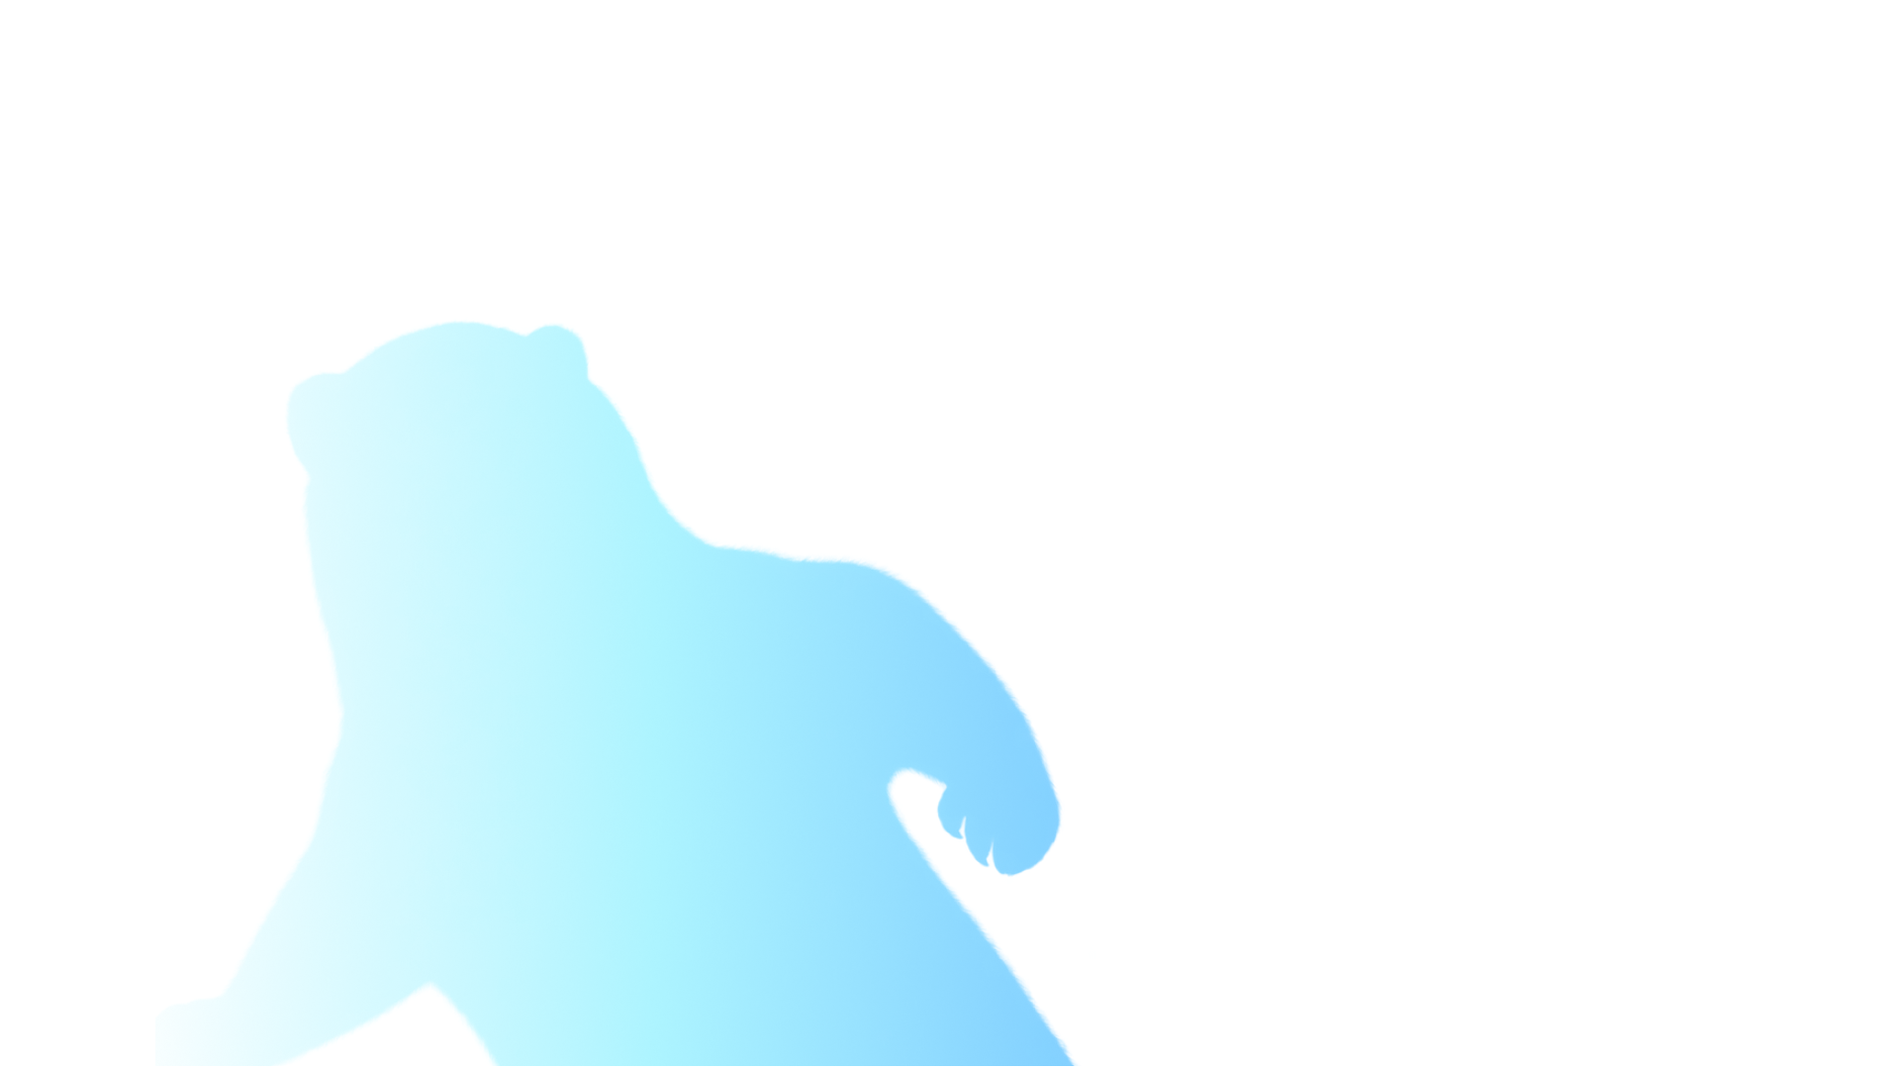
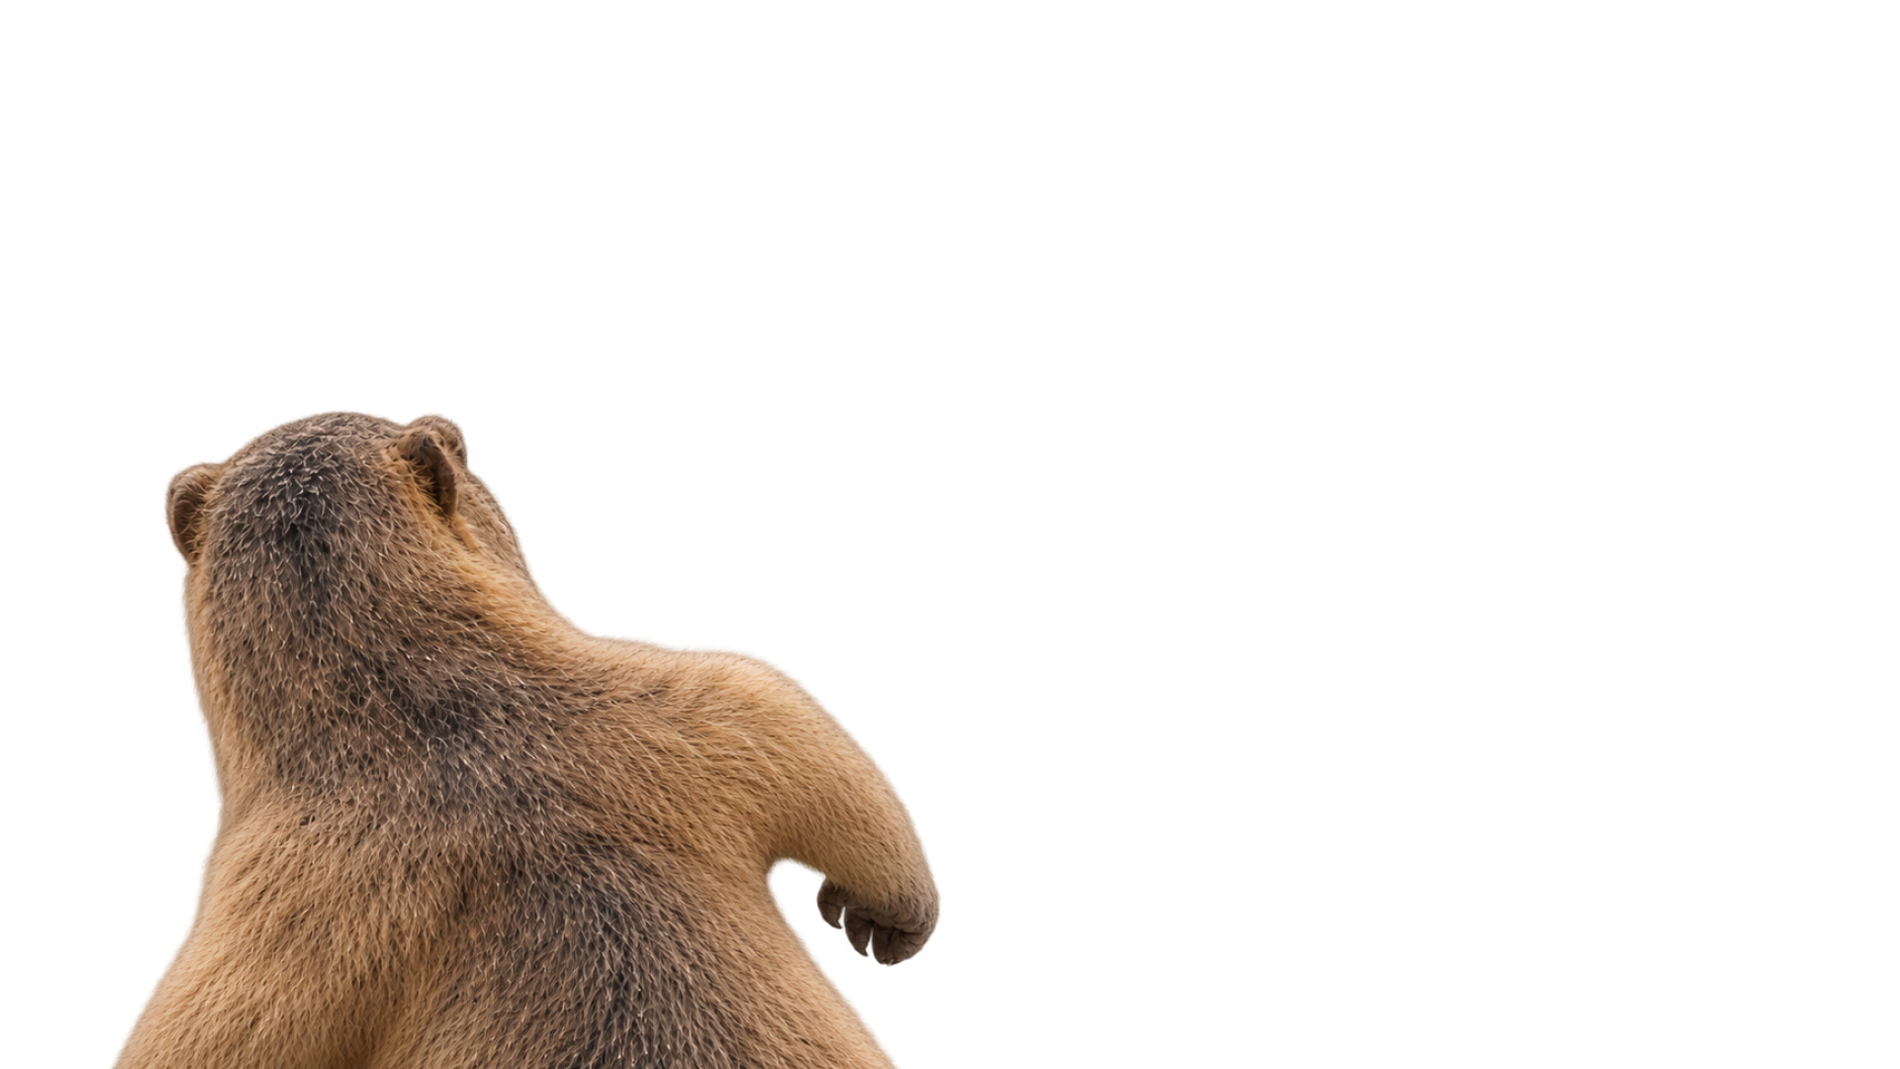
ファイル整頓をコミット

Changed region(s): [[0.0625, 0.3056, 0.5625, 1.0]]

diff --git a/game.js b/game.js
@@ -48,48 +48,42 @@ const struggleTwoPlayerFeedback = document.getElementById("struggle-2p-feedback"
 const struggleInstruction = document.getElementById("struggle-instruction");
 const struggleOpponentLabel = document.getElementById("struggle-opponent-label");
 const normalImage = player.getAttribute("src");
-const sittingImage = "assets/characters/player/sit/座り_プレイヤー.png";
+const sittingImage = "assets/characters/player/sit/Sit_1P.png";
 const punchImages = {
-    0: "assets/characters/player/punch/パンチ_プレイヤー_左.png",
-    2: "assets/characters/player/punch/パンチ_プレイヤー_右.png",
+    0: "assets/characters/player/punch/Punch_Left_1P.png",
+    2: "assets/characters/player/punch/Punch_Right_1P.png",
 };
 // 全画面PNGの位置は画面に対する割合（cqw / cqh）。コピー数や移動幅も調整できる。
 const rightPunchMotion = {
     windup: 300, windupHold: 140, contact: 100, recovery: 120,
     layers: [
-        { image: "assets/characters/player/Stand_1P.png", copies: 3, opacity: 0.5, fade: "out", fadeStart: 0, fadeEnd: 0.375, offsetX: -0.7, offsetY: 0 },
-        { image: "assets/characters/player/punch/Punch_Right_1P_残像.png", copies: 3, opacity: 0.5, fade: "in", fadeStart: 0.25, fadeEnd: 1, offsetX: 0.7, offsetY: 0 },
+        { image: "assets/characters/player/stand/Stand_afterimage_1P.png", copies: 3, opacity: 0.5, fade: "out", fadeStart: 0, fadeEnd: 0.375, offsetX: -0.7, offsetY: 0 },
+        { image: "assets/characters/player/punch/Punch_Right_afterimage_1P.png", copies: 3, opacity: 0.5, fade: "in", fadeStart: 0.25, fadeEnd: 1, offsetX: 0.7, offsetY: 0 },
     ],
 };
 function makeMotionConfig(image, direction, windup, windupHold, contact, recovery) {
     return {
         windup, windupHold, contact, recovery,
         layers: [
-            { image: "assets/characters/player/Stand_1P.png", copies: 3, opacity: 0.5, fade: "out", fadeStart: 0, fadeEnd: 0.375, offsetX: -0.7 * direction, offsetY: 0 },
+            { image: "assets/characters/player/stand/Stand_afterimage_1P.png", copies: 3, opacity: 0.5, fade: "out", fadeStart: 0, fadeEnd: 0.375, offsetX: -0.7 * direction, offsetY: 0 },
             { image, copies: 3, opacity: 0.5, fade: "in", fadeStart: 0.25, fadeEnd: 1, offsetX: 0.7 * direction, offsetY: 0 },
         ],
     };
 }
-const leftPunchMotion = makeMotionConfig("assets/characters/player/punch/Punch_Left_1P.png", -1, 180, 84, 100, 170);
+const leftPunchMotion = makeMotionConfig("assets/characters/player/punch/Punch_Left_1P_afterimage.png", -1, 180, 84, 100, 170);
 const dodgeImages = {
-    left: "assets/characters/player/dodge/回避_プレイヤー_左.png",
-    right: "assets/characters/player/dodge/回避_プレイヤー_右.png",
+    left: "assets/characters/player/dodge/Dodge_Left_1P.png",
+    right: "assets/characters/player/dodge/Dodge_Right_1P.png",
 };
 const dodgeMotions = {
-    left: makeMotionConfig("assets/characters/player/dodge/Dodge_Left_1P.png", -1, 80, 35, 140, 120),
-    right: makeMotionConfig("assets/characters/player/dodge/Dodge_Right_1P.png", 1, 80, 35, 140, 120),
+    left: makeMotionConfig("assets/characters/player/dodge/Dodge_Left_afterimage_1P.png", -1, 80, 35, 140, 120),
+    right: makeMotionConfig("assets/characters/player/dodge/Dodge_Right_afterimage_1P.png", 1, 80, 35, 140, 120),
 };
-// 1920×1080の基準画面上での画像左上座標。
-dodgeMotions.left.endPosition = { x: 35, y: 362 };
-dodgeMotions.right.endPosition = { x: 216, y: 321 };
-// 不透明部分の中心。全画面の残像と縦長の到達姿勢の透明余白を合わせる。
-dodgeMotions.left.anchors = { stand: { x: 715, y: 682.5 }, ghost: { x: 622.5, y: 700 }, pose: { x: 534, y: 734 } };
-dodgeMotions.right.anchors = { stand: { x: 715, y: 682.5 }, ghost: { x: 799, y: 701 }, pose: { x: 552, y: 734 } };
-const roarImage = "assets/characters/player/roar/咆哮_プレイヤー.png";
-const sitAfterimage1 = "assets/characters/player/sit/座る_プレイヤー_残像1_.png";
-const sitAfterimage2 = "assets/characters/player/sit/座る_プレイヤー_残像2.png";
-const roarAfterimage1 = "assets/characters/player/roar/咆哮_プレイヤー_残像1.png";
-const roarAfterimage2 = "assets/characters/player/roar/咆哮_プレイヤー_残像2.png";
+const roarImage = "assets/characters/player/roar/Roar_1P.png";
+const sitAfterimage1 = "assets/characters/player/stand/Stand_1P.png";
+const sitAfterimage2 = "assets/characters/player/sit/Sit_1P.png";
+const roarAfterimage1 = "assets/characters/player/stand/Stand_1P.png";
+const roarAfterimage2 = "assets/characters/player/roar/Roar_1P.png";
 const sittingFrames = [
     { image: sitAfterimage1, duration: 80, fullFrame: true },
     { image: sitAfterimage2, duration: 80, fullFrame: true },
@@ -106,13 +100,13 @@ const roarFrames = [
     { image: roarAfterimage2, duration: 150, fullFrame: true },
     { image: roarAfterimage1, duration: 150, fullFrame: true },
 ];
-const pickupImage = "assets/characters/player/pick up/拾い_プレイヤー.png";
+const pickupImage = "assets/characters/player/pick up/Pick up_1P.png";
 const pickupFrames = [
-    { image: "assets/characters/player/pick up/拾う_プレイヤー_残像_1.png", duration: 90, fullFrame: true },
-    { image: "assets/characters/player/pick up/拾う_プレイヤー_残像_2.png", duration: 90, fullFrame: true },
+    { image: "assets/characters/player/pick up/Pick up_afterimage_1P.png", duration: 90, fullFrame: true },
+    { image: "assets/characters/player/pick up/Pick up_afterimage_1P.png", duration: 90, fullFrame: true },
     { image: pickupImage, duration: 90, compactPose: true },
-    { image: "assets/characters/player/pick up/拾う_プレイヤー_残像_2.png", duration: 90, fullFrame: true },
-    { image: "assets/characters/player/pick up/拾う_プレイヤー_残像_1.png", duration: 90, fullFrame: true },
+    { image: "assets/characters/player/pick up/Pick up_afterimage_1P.png", duration: 90, fullFrame: true },
+    { image: "assets/characters/player/pick up/Pick up_afterimage_1P.png", duration: 90, fullFrame: true },
 ];
 const roarFill = document.querySelector(".player-gauges .roar .gauge-fill");
 const staminaFill = document.querySelector(".player-gauges .stamina .gauge-fill");
@@ -132,7 +126,7 @@ const resultDisplayDuration = 2200;
 const stageIntroDuration = 1500;
 const fightIntroDuration = 800;
 const roarWarningDuration = 600;
-const roarTargetLockDuration = 4000;
+const roarTargetLockDuration = 2000; // 演出の1秒と合わせて3秒
 const roarCounterLockDuration = 2000;
 const eatingPercentPerSecond = 5;
 const maxStamina = 10;
@@ -141,7 +135,7 @@ const hitStaminaCost = 1;
 const dodgeRoarGain = 5;
 const punchInvulnerabilityDuration = 1500;
 const carrotRepickupDelay = 800;
-const naturalRecoveryInterval = 2000;
+const naturalRecoveryInterval = 1000;
 const sleepRecoveryInterval = 1000;
 const sleepRecoveryAmount = 2;
 const fatigueDuration = 4000;
@@ -284,7 +278,6 @@ const struggleState = {
     active: false, generation: 0, endsAt: 0,
     playerGood: 0, cpuGood: 0,
     lastPlayerButton: null, lastCpuButton: null,
-    pressedButtons: new Set(),
     finishTimer: null, displayTimer: null, cpuTimer: null,
 };
 let struggleAudioContext = null;
@@ -306,17 +299,20 @@ const openingState = {
 function configureStage(index) {
     stageIndex = index;
     const stage = stages[index];
-    const name = stage.character;
     cpuAi = cpuProfiles[stage.rank];
     struggleCpuProfile = struggleCpuProfiles[stage.rank];
-    cpuNormalImage = `assets/characters/cpu/${name}.png`;
+    const cpuAssets = [
+        { folder: "1_Normal", stand: "Stand_enemy.png", roar: "Roar_1.png", leftPunch: "Punch_Left_1.png", rightPunch: "Punch_Right_enemy.png", leftDodge: "Dodge_Left_enemy.png", rightDodge: "Dodge_Right_enemy.png", pickup: "Pick up_1.png", sit: "Sit_1.png", sleep: "Sleep_1.png" },
+        { folder: "2_Army", stand: "Stand_enemy2.png", roar: "Roar_enemy2.png", leftPunch: "Punch_left_enemy2.png", rightPunch: "Punch_Right_enemy2.png", leftDodge: "Dodge_Left_enemy2.png", rightDodge: "Dodge_Right_enemy2.png", pickup: "Pick up_enemy2.png", sit: "Sit_enemy2.png", sleep: "Sleep_enemy2.png" },
+        { folder: "3_Champion", stand: "Stand_enemy3.png", roar: "Roar_enemy3.png", leftPunch: "Punch_Left_enemy3.png", rightPunch: "Punch_Right_enemy3.png", leftDodge: "Dodge_Left_enemy3.png", rightDodge: "Dodge_Right_enemy3.png", pickup: "Pick up_enemy3.png", sit: "Sit_enemy3.png", sleep: "Sleep_enemy3.png" },
+    ][index];
+    const asset = (action, file) => `assets/characters/cpu/${cpuAssets.folder}/${action}/${file}`;
+    cpuNormalImage = asset("stand", cpuAssets.stand);
     cpuImages = {
-        roar: `assets/characters/cpu/roar/咆哮_${name}.png`,
-        punch: { left: `assets/characters/cpu/punch/パンチ_${name}_左.png`, right: `assets/characters/cpu/punch/パンチ_${name}_右.png` },
-        dodge: { left: `assets/characters/cpu/dodge/回避_${name}_左.png`, right: `assets/characters/cpu/dodge/回避_${name}_右.png` },
-        pickup: `assets/characters/cpu/pick up/拾い_${name}.png`,
-        sit: `assets/characters/cpu/sit/座り_${name}.png`,
-        sleep: `assets/characters/cpu/sleep/眠り_${name}.png`,
+        roar: asset("roar", cpuAssets.roar),
+        punch: { left: asset("punch", cpuAssets.leftPunch), right: asset("punch", cpuAssets.rightPunch) },
+        dodge: { left: asset("dodge", cpuAssets.leftDodge), right: asset("dodge", cpuAssets.rightDodge) },
+        pickup: asset("pick up", cpuAssets.pickup), sit: asset("sit", cpuAssets.sit), sleep: asset("sleep", cpuAssets.sleep),
     };
     gameScreen.style.backgroundImage = `url("assets/backgrounds/背景_${stage.background}.png")`;
     stageLabel.src = `assets/stage/${stage.label}`;
@@ -531,7 +527,6 @@ function stopBattleActions() {
     struggleState.cpuTimer = null;
     struggleState.active = false;
     struggleState.generation += 1;
-    struggleState.pressedButtons.clear();
     stopStruggleMusic();
     struggleUi.hidden = true;
     gameScreen.classList.remove("is-struggling");
@@ -871,10 +866,6 @@ setInterval(() => {
 }, 100);
 
 function showPlayerImage(image, compactPose = false, fullFrame = false, position = null) {
-    player.classList.toggle("is-full-frame", fullFrame);
-    player.style.width = compactPose ? "42cqw" : "";
-    player.style.left = position ? `${position.x / 1920 * 100}cqw` : compactPose ? "16cqw" : "";
-    player.style.top = position ? `${position.y / 1080 * 100}cqh` : "";
     player.src = image;
 }
 
@@ -1258,8 +1249,7 @@ function stopStruggleMusic() {
 
 function recordStrugglePlayerInput(button) {
     if (!struggleState.active || performance.now() >= struggleState.endsAt ||
-        (button !== 0 && button !== 2) || struggleState.pressedButtons.has(button)) return;
-    struggleState.pressedButtons.add(button);
+        (button !== 0 && button !== 2)) return;
     startStruggleMusic();
     const good = struggleState.lastPlayerButton === null || struggleState.lastPlayerButton !== button;
     struggleState.lastPlayerButton = button;
@@ -1299,7 +1289,6 @@ function startStruggle() {
     clearPendingRoar();
     clearTwoPlayerInput();
     pressedPunchButtons.clear();
-    struggleState.pressedButtons.clear();
     struggleState.active = true;
     const generation = ++struggleState.generation;
     struggleState.endsAt = performance.now() + struggleDuration;
@@ -1316,7 +1305,7 @@ function startStruggle() {
     struggleTwoPlayerFeedback.textContent = "";
     struggleTwoPlayerFeedback.className = "struggle-feedback";
     struggleTwoPlayerFeedback.hidden = gameMode !== "2p";
-    struggleInstruction.textContent = gameMode === "2p" ? "1P：左右クリック　2P：J / K を交互に！" : "左右交互にクリック！";
+    struggleInstruction.textContent = gameMode === "2p" ? "1P：ホイール上・下　2P：J / K を交互に！" : "ホイール上・下 または J / K を交互に！";
     struggleOpponentLabel.textContent = gameMode === "2p" ? "2P" : "CPU";
     gameScreen.classList.add("is-struggling");
     struggleUi.hidden = false;
@@ -1340,7 +1329,6 @@ function finishStruggle(generation) {
         struggleState.playerGood > struggleState.cpuGood ? "player" : "cpu";
     struggleState.active = false;
     clearTwoPlayerInput();
-    struggleState.pressedButtons.clear();
     pressedPunchButtons.clear();
     struggleState.lastPlayerButton = null;
     struggleState.lastCpuButton = null;
@@ -1693,21 +1681,6 @@ function renderMotionVisual(config, progress) {
             image.style.opacity = String(layer.opacity * intensity * (1 - copy / layer.copies));
             let x = layer.offsetX * copy * intensity;
             let y = layer.offsetY * copy * intensity;
-            if (config.anchors && config.endPosition) {
-                const { stand, ghost, pose } = config.anchors;
-                // 到達画像は幅42cqw、元画像は幅1086px。両者の可視部分の中心を一致させる。
-                const poseScale = (1920 * 0.42) / 1086;
-                const endX = config.endPosition.x + pose.x * poseScale;
-                const endY = config.endPosition.y + pose.y * poseScale;
-                const startX = layer.fade === "in" ? stand.x - ghost.x : 0;
-                const startY = layer.fade === "in" ? stand.y - ghost.y : 0;
-                const finishX = layer.fade === "in" ? endX - ghost.x : endX - stand.x;
-                const finishY = layer.fade === "in" ? endY - ghost.y : endY - stand.y;
-                const clamp = (value, a, b) => Math.max(Math.min(a, b), Math.min(Math.max(a, b), value));
-                const trail = progress * (1 - progress);
-                x = clamp(startX + (finishX - startX) * progress + x * 1920 / 100 * trail, startX, finishX) / 1920 * 100;
-                y = clamp(startY + (finishY - startY) * progress + y * 1080 / 100 * trail, startY, finishY) / 1080 * 100;
-            }
             image.style.transform = `translate(${x}cqw, ${y}cqh)`;
         }
     }
@@ -1843,26 +1816,20 @@ function applyRoarToTarget(target) {
         if (dodgePhase) cancelDodge();
         if (pickupInProgress) cancelPickup();
         if (standingUp) cancelStandUp();
-        clearTimeout(fatigueTimer);
-        fatigueTimer = null;
-        fatigued = false;
         if (playerState.hasCarrot) dropCarrot("player", "roar");
         playerState.mode = "normal";
         playerState.sleepHitCount = 0;
         playerRoarStunned = true;
         actionInProgress = true;
-        setStamina(0, false);
+        setStamina(Math.ceil(stamina / 2), false);
         showCurrentState();
         player.classList.add("is-roar-hit");
     } else {
         cancelCpuActionForRoar();
-        clearTimeout(cpuState.fatigueTimer);
-        cpuState.fatigueTimer = null;
-        cpuState.fatigued = false;
         if (carrotState.holder === "cpu") dropCarrot("cpu", "roar");
         cpuState.mode = "roarStunned";
         cpuState.roarStunned = true;
-        setCpuStamina(0, false);
+        setCpuStamina(Math.ceil(cpuState.stamina / 2), false);
         showCpuCurrentState();
         cpu.classList.add("is-roar-hit");
     }
@@ -1873,13 +1840,11 @@ function releaseRoarTarget(target) {
         playerRoarStunned = false;
         actionInProgress = false;
         playerState.mode = playerState.hasCarrot ? "eating" : "normal";
-        setStamina(fatigueRecoveryStamina);
         lastStaminaUpdate = performance.now();
         showCurrentState();
     } else {
         cpuState.roarStunned = false;
-        cpuState.mode = carrotState.holder === "cpu" ? "eating" : "normal";
-        setCpuStamina(fatigueRecoveryStamina);
+        cpuState.mode = cpuState.fatigued ? "fatigued" : carrotState.holder === "cpu" ? "eating" : "normal";
         cpuState.lastStaminaUpdate = performance.now();
         showCpuCurrentState();
     }
@@ -1994,7 +1959,14 @@ function startTwoPlayerSit() {
 }
 
 window.addEventListener("keydown", (event) => {
-    if (gameMode !== "2p" || matchState.finished || !["KeyD", "KeyF", "KeyJ", "KeyK", "Space"].includes(event.code)) return;
+    if (matchState.finished || !["KeyD", "KeyF", "KeyJ", "KeyK", "Space"].includes(event.code)) return;
+    if (gameMode !== "2p") {
+        if (struggleState.active && (event.code === "KeyJ" || event.code === "KeyK")) {
+            event.preventDefault();
+            if (!event.repeat) recordStrugglePlayerInput(event.code === "KeyJ" ? 0 : 2);
+        }
+        return;
+    }
     event.preventDefault();
     if (event.repeat || twoPlayerKeys.has(event.code)) return;
     twoPlayerKeys.add(event.code);
@@ -2049,7 +2021,6 @@ gameScreen.addEventListener("mousedown", (event) => {
     if (matchState.finished) return;
     if (struggleState.active) {
         if (event.button === 2) event.preventDefault();
-        recordStrugglePlayerInput(event.button);
         return;
     }
     if (pickupInProgress && event.button === 1) {
@@ -2096,12 +2067,10 @@ gameScreen.addEventListener("mousedown", (event) => {
 });
 
 window.addEventListener("mouseup", (event) => {
-    struggleState.pressedButtons.delete(event.button);
     pressedPunchButtons.delete(event.button);
 });
 
 window.addEventListener("blur", () => {
-    struggleState.pressedButtons.clear();
     pressedPunchButtons.clear();
     clearPendingRoar();
     clearTwoPlayerInput();
@@ -2113,8 +2082,11 @@ gameScreen.addEventListener("auxclick", (event) => {
 
 gameScreen.addEventListener("wheel", (event) => {
     event.preventDefault();
-    if (matchState.finished || struggleState.active) return;
-    if (event.deltaY === 0) return;
+    if (matchState.finished || event.deltaY === 0) return;
+    if (struggleState.active) {
+        recordStrugglePlayerInput(event.deltaY < 0 ? 0 : 2);
+        return;
+    }
     if (actionInProgress || fatigued || playerRoarStunned || playerCounterStunned) return;
 
     clearPendingRoar();

diff --git a/index.html b/index.html
@@ -9,13 +9,13 @@
 </head>
 <body>
     <main id="game-screen" aria-label="ふれあいまーもっと 戦闘画面">
-        <img id="cpu" src="assets/characters/cpu/ノーマル.png" alt="CPUのまーもっと">
+        <img id="cpu" src="assets/characters/cpu/1_Normal/stand/Stand_enemy.png" alt="CPUのまーもっと">
         <div id="cpu-hit-mark" aria-hidden="true">HIT!</div>
         <div id="player-hit-mark" aria-hidden="true">HIT!</div>
         <div id="roar-warning" role="status" aria-live="assertive" hidden>WARNING!</div>
         <div id="first-hit-label" role="status" aria-live="polite" hidden>FIRST HIT!</div>
         <img id="carrot" src="assets/carrots/リアルにんじん.png" alt="にんじん">
-        <img id="player" src="assets/characters/プレイヤー.png" alt="プレイヤーのまーもっと">
+        <img id="player" src="assets/characters/player/stand/Stand_1P.png" alt="プレイヤーのまーもっと">
 
         <div id="battle-ui">
             <div class="gauge-group player-gauges" aria-label="プレイヤーのゲージ">
@@ -53,8 +53,8 @@
         </div>
         <div id="struggle-ui" aria-live="polite" hidden>
             <div class="struggle-title">にんじん争奪！</div>
-            <div class="struggle-mouse" aria-label="左クリックと右クリックを交互に押す"><span>左</span><span>右</span></div>
-            <div class="struggle-instruction" id="struggle-instruction">左右交互にクリック！</div>
+            <div class="struggle-mouse" aria-label="ホイールを上と下に交互に操作"><span>上</span><span>下</span></div>
+            <div class="struggle-instruction" id="struggle-instruction">ホイール上・下 または J / K を交互に！</div>
             <div id="struggle-time" class="struggle-time">3</div>
             <div class="struggle-scores"><span>1P GOOD <strong id="struggle-player-score">0</strong></span><span><span id="struggle-opponent-label">CPU</span> GOOD <strong id="struggle-cpu-score">0</strong></span></div>
             <div id="struggle-feedback" class="struggle-feedback" aria-live="assertive"></div>
@@ -75,7 +75,7 @@
             <p>1P：マウスでパンチ・回避・座り</p>
             <p>2P：D / F パンチ　J / K 回避　Space 座り</p>
             <p>2P：D＋Fを長押しで咆哮（ゲージ100%）</p>
-            <p>にんじん争奪中は1Pが左右クリック、2PがJ / Kを交互に入力</p>
+            <p>にんじん争奪中は1Pがホイール上・下、2PがJ / Kを交互に入力</p>
             <button id="two-player-start" type="button">対戦開始</button>
             <button id="two-player-back" type="button">タイトルへ</button>
         </section>

diff --git a/style.css b/style.css
@@ -18,12 +18,12 @@ body {
 /* 1920×1080 の画面をコンテナ単位で等比縮小する。 */
 #game-screen {
     /* キャラクター調整値。PNGの透明余白を含む画像全体の幅と左上座標。 */
-    --player-width: 122cqw;
-    --player-left: -25cqw;
-    --player-top: 19cqh;
-    --cpu-width: 37cqw;
-    --cpu-left: 39.5cqw;
-    --cpu-top: 20.3cqh;
+    --player-width: 100cqw;
+    --player-left: 0cqw;
+    --player-top: 0cqh;
+    --cpu-width: 100cqw;
+    --cpu-left: 0cqw;
+    --cpu-top: 0cqh;
     /* 所持中のにんじん位置。立ち姿と座り姿で調整する。 */
     --carrot-standing-left: 46cqw;
     --carrot-standing-top: 34cqh;
@@ -307,7 +307,7 @@ body {
 
 #battle-timer {
     position: relative;
-    margin-top: 2cqh;
+    margin-top: -3.3cqh;
     color: #fff;
     font: 900 8.9cqh/1 Arial, sans-serif;
     letter-spacing: -0.3cqw;
